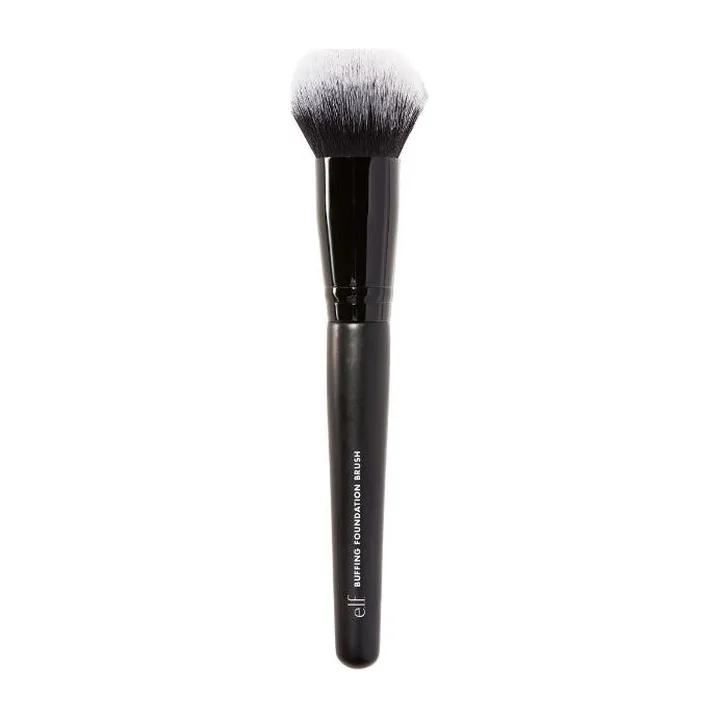
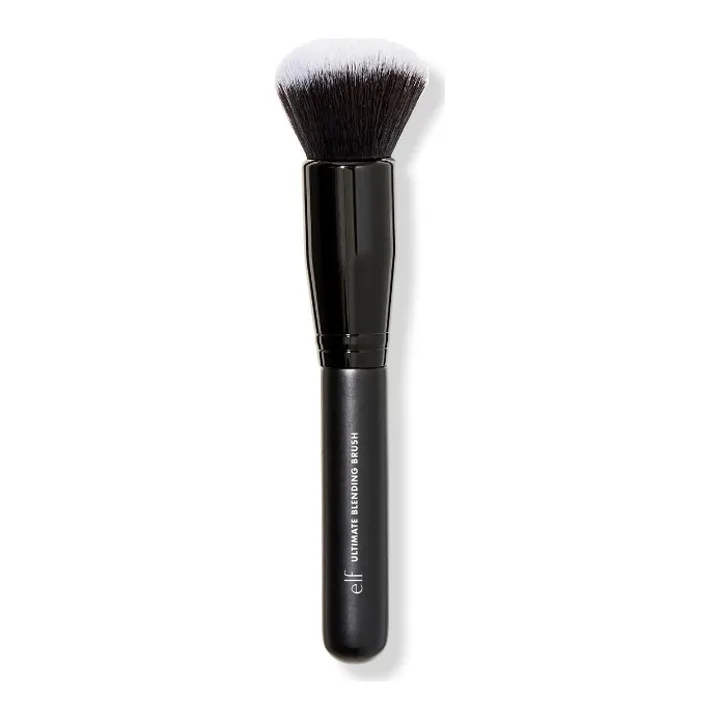
Agregar delineador, lápiz de cejas individual y tonos de la paleta
- Set lápiz de cejas: solo Neutral Brown (foto nueva del set)
- Lápiz de cejas individual en Taupe y Deep Brown, oculto hasta tener precio
- Delineador plumón negro a 8 $
- Paleta de sombras con 2 tonos: Need It Nude y Everyday Smoky
- Foto nueva de la brocha para base (Buffing Foundation Brush)
- supabase/updates/001 para aplicar los cambios a la base en línea

Claude-Session: https://claude.ai/code/session_01D55VGWirzed5ekn3yvsVTd

Changed region(s): [[0.3667, 0.0611, 0.6417, 0.9472]]

diff --git a/src/lib/catalog.ts b/src/lib/catalog.ts
@@ -20,6 +20,8 @@ export interface CatalogProduct {
   image: string
   badge?: string
   description?: string
+  /** Entra oculto en la tienda (ej. le falta el precio) */
+  hidden?: boolean
   swatch?: string
   tones?: CatalogTone[]
 }
@@ -386,7 +388,38 @@ export const CATALOG: CatalogProduct[] = [
     price: 6,
     wholesale: 4,
     image: img('lapiz-cejas'),
-    tones: tones([['Taupe', '#8A7262']])
+    description: 'Set de 2 lápices retráctiles con cepillo. En set solo viene en Neutral Brown.',
+    swatch: chart('lapiz-cejas'),
+    tones: tones([['Neutral Brown', '#5E4433']])
+  },
+  {
+    // Precio pendiente: entra oculto hasta que se le ponga precio desde el panel
+    slug: 'lapiz-cejas-individual',
+    name: 'Lápiz de cejas',
+    subtitle: 'Instant Lift Brow Pencil · individual',
+    brand: 'e.l.f.',
+    category: 'Ojos y cejas',
+    price: 0,
+    wholesale: null,
+    image: img('lapiz-cejas-individual'),
+    description: 'Lápiz retráctil con cepillo, por unidad.',
+    swatch: chart('lapiz-cejas'),
+    hidden: true,
+    tones: tones([
+      ['Taupe', '#8A7262'],
+      ['Deep Brown', '#3E2A20']
+    ])
+  },
+  {
+    slug: 'delineador-plumon',
+    name: 'Delineador plumón negro',
+    subtitle: 'Eyeliner Pen',
+    brand: 'e.l.f.',
+    category: 'Ojos y cejas',
+    price: 8,
+    wholesale: null,
+    image: img('delineador-plumon'),
+    description: 'Delineador líquido tipo plumón, punta fina.'
   },
   {
     slug: 'gel-cejas-pestanas',
@@ -401,13 +434,18 @@ export const CATALOG: CatalogProduct[] = [
   {
     slug: 'paleta-sombras',
     name: 'Paleta de sombras',
-    subtitle: 'Paleta de 10 tonos',
+    subtitle: 'Perfect 10 Eyeshadow · 10 tonos',
     brand: 'e.l.f.',
     category: 'Ojos y cejas',
     price: 11,
     wholesale: 9,
-    image: img('paleta-sombras'),
-    badge: 'Nuevo'
+    image: img('paleta-need-it-nude'),
+    badge: 'Nuevo',
+    swatch: chart('paleta-sombras'),
+    tones: [
+      { name: 'Need It Nude', hex: '#C9A58C', image: img('paleta-need-it-nude') },
+      { name: 'Everyday Smoky', hex: '#5A4A44', image: img('paleta-everyday-smoky') }
+    ]
   },
   {
     slug: 'brocha-liquidos-polvos',
@@ -422,7 +460,7 @@ export const CATALOG: CatalogProduct[] = [
   {
     slug: 'brocha-base',
     name: 'Brocha para base',
-    subtitle: 'Foundation Brush',
+    subtitle: 'Buffing Foundation Brush',
     brand: 'e.l.f.',
     category: 'Brochas',
     price: 8,

diff --git a/scripts/gen-seed.ts b/scripts/gen-seed.ts
@@ -25,9 +25,9 @@ const out: string[] = [
 CATALOG.forEach((p, i) => {
   out.push(`  -- ${p.name}`)
   out.push(
-    `  insert into public.products (name, subtitle, brand, category, badge, description, price, price_wholesale, image_url, images, swatch_url, sort)` +
+    `  insert into public.products (name, subtitle, brand, category, badge, description, price, price_wholesale, image_url, images, swatch_url, sort, active)` +
       ` values (${q(p.name)}, ${q(p.subtitle)}, ${q(p.brand)}, ${q(p.category)}, ${q(p.badge ?? '')}, ${q(p.description ?? '')}, ${p.price}, ${n(p.wholesale)},` +
-      ` ${q(p.image)}, ${q(JSON.stringify([p.image]))}::jsonb, ${q(p.swatch ?? null)}, ${i}) returning id into pid;`
+      ` ${q(p.image)}, ${q(JSON.stringify([p.image]))}::jsonb, ${q(p.swatch ?? null)}, ${i}, ${p.hidden ? 'false' : 'true'}) returning id into pid;`
   )
   if (p.tones?.length) {
     const rows = p.tones.map((t, k) => `(pid, ${q(t.name)}, ${q(t.hex)}, ${q(t.image ?? null)}, ${q(t.grp ?? '')}, ${k}, 0)`)

diff --git a/src/lib/demoApi.ts b/src/lib/demoApi.ts
@@ -55,7 +55,7 @@ function seed(): DemoDb {
       image_url: asset(c.image),
       images: [asset(c.image)],
       swatch_url: c.swatch ? asset(c.swatch) : null,
-      active: true,
+      active: !c.hidden,
       sort: i,
       created_at: new Date(now - i * 60000).toISOString(),
       variants
